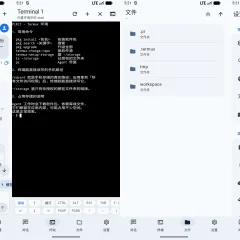
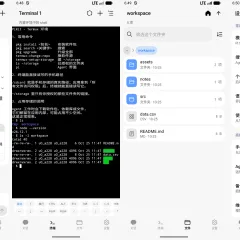
更新：PiKit 文章同步至 0.6.1
- 界面设计语言由 Material 3 Expressive 改为 Miuix，预览图换为 0.6.0 版
- 供应商 34 家、运行时约 300 MB，文件页与输入区布局按新界面改写
- 补充 Android 8.0 要求、x86_64 包与增量更新说明
- 按手册与设计文档校正回合折叠、设置页条目、删除范围、网络与上架说明

diff --git a/src/content/posts/pikit.md b/src/content/posts/pikit.md
@@ -1,22 +1,22 @@
 ---
 title: PiKit 发布：一个基于 pi 和 Termux 的简洁安卓 AI Agent
 date: 2026-09-23
-lastMod: 2026-10-13T11:18:12+08:00
+lastMod: 2026-10-30T08:30:04+08:00
 summary: 一直想要一个开箱即用、又简洁美观的手机 AI Agent——试过一圈都不够顺手，于是自己做了 PiKit。介绍它是什么、为什么做，以及怎么装到手机上。
 category: 分享
 tags: [PiKit, Android, AI, pi, Termux, 分享]
 cover: /pikit-preview.webp
 ---
 
-手机上不缺会聊天的 AI，缺的是**开箱即用、又简洁美观的专业 Agent**。为了这么一个东西，我试过不少 App，也折腾过 Termux + [pi](https://pi.dev)，最后决定自己动手——项目叫 **[PiKit](https://github.com/nekooy/PiKit)**，一个基于 pi 和 Termux 的简洁安卓 AI Agent。
+手机上不缺会聊天的 AI，缺的是**开箱即用、又简洁美观的专业 Agent**。为了这么一个东西，我试过不少 App，也折腾过 Termux + [pi](https://pi.dev)，最后决定自己动手——项目叫 **[PiKit](https://github.com/nekooy/PiKit)**，一个基于 pi 和 Termux 的简洁安卓 AI Agent。项目一直在迭代，现在已经到 0.6.1。
 
 ## 一、PiKit 是什么
 
 一句话：**一个简洁、开箱即用的 Android AI Agent。**
 
-装好 APK 就能直接用：Termux 环境、Node.js 与 `pi` 命令行都打包在包里，首次启动解包即用，不必再配软件源或额外下载。提问仍要送到模型供应商，所以唯一需要的网络是「能连上那家供应商」。
+装好 APK 就能直接用：Termux 环境、Node.js 与 `pi` 命令行都打包在包里，首次启动解包即用，不必再配软件源或额外下载。提问仍要送到模型供应商，所以网络至少要能连上那家供应商。
 
-界面用 Kotlin 与 Jetpack Compose 写成，按 **Material 3 Expressive（MD3E）** 设计语言绘制，架在一个引入的 Termux 终端之上，**任何地方都没有 WebView**。目前有英文、简体中文和日文三套文案。
+界面用 Kotlin 与 Jetpack Compose 写成，按 **Miuix**（MIUI / HyperOS 风格的 Compose 组件库）绘制，架在一个引入的 Termux 终端之上，**任何地方都没有 WebView**。目前有英文、简体中文和日文三套文案。
 
 ## 二、为什么做这个
 
@@ -28,39 +28,39 @@ cover: /pikit-preview.webp
 
 结论很朴素：**市面上缺一个既专业、又干净、还能自己掌控的手机端 Agent。**
 
-自己折腾 Termux + pi 那条路也不轻松：环境搭建步骤多，换机、重装就来一遍；网络环境一差，`pkg install` 就开始漫长重试；好不容易跑起来，输入法还缺 ESC / TAB / 方向键。PiKit 把第一类问题直接消掉——**运行时是 APK 的一部分**，首次启动解包（约 285 MB，几秒即可）就能用；第二类交给原生界面：对话、终端、文件、设置四个标签页，模型与思考等级做成输入框上方的开关，不重启 Agent 就生效。
+自己折腾 Termux + pi 那条路也不轻松：环境搭建步骤多，换机、重装就来一遍；网络环境一差，`pkg install` 就开始漫长重试；好不容易跑起来，输入法还缺 ESC / TAB / 方向键。PiKit 把第一类问题直接消掉——**运行时是 APK 的一部分**，首次启动解包（约 300 MB，几秒即可）就能用；第二类交给原生界面：对话、终端、文件、设置四个标签页，模型与思考等级做成输入框上方的开关，不重启 Agent 就生效。
 
-设计上也有几条刻意的克制，不少是被上面那些 App「教育」出来的：不往里堆功能；没有账号，也没有遥测；有意不上架 Google Play，只从 [Releases](https://github.com/nekooy/PiKit/releases/latest) 直接发 APK。
+设计上也有几条刻意的克制，不少是被上面那些 App「教育」出来的：不往里堆功能；没有账号，也没有遥测；不上架 Google Play（Play 的政策也不接受这类会申请「所有文件访问权限」的应用），只从 [Releases](https://github.com/nekooy/PiKit/releases/latest) 直接发 APK。
 
 ## 三、主要特色
 
-| 方面   | 说明                                                                                                                                |
-| ------ | ----------------------------------------------------------------------------------------------------------------------------------- |
-| 界面   | Kotlin + Jetpack Compose，按 Material 3 Expressive（MD3E）绘制；四个标签页，没有 WebView                                            |
-| 对话   | 走 pi 的 RPC 协议；回合结束折叠成一行（如 `Worked 47s · 5 steps`），点一下重新展开                                                  |
-| 控制   | 思考等级、模型、上下文占用、缓存命中都是输入框上方的按钮，不重启 Agent 就生效                                                       |
-| 终端   | 切换标签页也不中断的 PTY 会话，以及手机键盘没有的按键                                                                               |
-| 文件   | `$HOME` 的只读视图，方便快速翻看工作区                                                                                              |
-| 供应商 | pi 密钥表认识的 32 家，外加自定义端点；上下文窗口、输出上限、思考等级与图片支持读自 pi 的目录                                       |
-| 安全   | 存储授权默认为空、按文件夹逐个开启；删除只在应用数据内生效；安全守卫拒绝 `$HOME/workspace` 之外的递归删除，也拒绝改写 pi 自己的文件 |
+| 方面   | 说明                                                                                                                                                                                                       |
+| ------ | ---------------------------------------------------------------------------------------------------------------------------------------------------------------------------------------------------------- |
+| 界面   | Kotlin + Jetpack Compose，按 Miuix（MIUI / HyperOS 风格的组件库）绘制；四个标签页，没有 WebView                                                                                                            |
+| 对话   | 走 pi 的 RPC 协议；回合结束后中间步骤折叠成一行（如 `Worked 47s · 5 steps`），点一下重新展开                                                                                                               |
+| 控制   | 思考等级、模型与缓存命中是输入框上方的一排按钮，上下文占用做成发送键旁的圆环；模型与思考等级切换后不重启 Agent 就生效                                                                                      |
+| 终端   | 切换标签页也不中断的 PTY 会话，以及手机键盘没有的按键                                                                                                                                                      |
+| 文件   | `$HOME` 的只读文件管理器：可点的路径、只筛当前文件夹的筛选框、三种排序、每行的大小或项数、图片预览与长按复制路径                                                                                           |
+| 供应商 | pi 密钥表里能用单个 Key 配好的 34 家，外加自定义端点；上下文窗口、输出上限、思考等级与图片支持读自 pi 的目录                                                                                               |
+| 安全   | 存储授权默认为空、按文件夹逐个开启；PiKit 自己的递归删除只在应用数据内生效；运行时里的安全扩展在每次 `bash`、`write`、`edit` 前把关，拒绝 `$HOME/workspace` 之外的递归删除，也拒绝改写 pi 自己的凭据与设置 |
 
 ## 四、界面一览
 
-![PiKit 0.5.0 界面预览：对话、终端、文件、设置四个标签页](/pikit-preview.webp)
+![PiKit 0.6.0 界面预览：对话、终端、文件、设置四个标签页](/pikit-preview.webp)
 
-对话页把完整回合收成一行，需要回看时再展开；终端与文件页服务「Agent 改完东西，人要确认一眼」的场景；设置里管模型与供应商、手机存储、备份与更新检查。
+对话页把回合里的中间步骤收成一行，需要回看时再展开（最终回答不会被折叠）；终端与文件页服务「Agent 改完东西，人要确认一眼」的场景；设置页分成「常用设置」与「高级」两段：模型与供应商、搜索设置、个性化、语言、使用手册，以及手机存储、Agent 进程、备份与恢复、维护与修复、关于 PiKit。
 
 ## 五、怎么装
 
-手机、平板直接下这个 arm64 包即可（`app-arm64-release.apk`，约 110 MB）：
+需要 Android 8.0 以上；手机、平板直接下这个 arm64 包即可（`app-arm64-release.apk`，约 110 MB）：
 
 **[下载 PiKit APK](https://github.com/nekooy/PiKit/releases/latest/download/app-arm64-release.apk)**
 
-其他架构和校验文件见 [releases 页面](https://github.com/nekooy/PiKit/releases/latest)；不确定架构可以用 `adb shell getprop ro.product.cpu.abi` 查看。装错也无妨，应用会提示该包没有本机运行时镜像，而不是启动后才失败。建议用 `sha256sum -c SHA256SUMS` 校验后再安装。
+`x86_64` 模拟器用 `app-x64-release.apk`，校验文件见 [releases 页面](https://github.com/nekooy/PiKit/releases/latest)；不确定架构可以用 `adb shell getprop ro.product.cpu.abi` 查看。装错也无妨，应用会提示该包没有本机运行时镜像，而不是启动后才失败。建议用 `sha256sum -c SHA256SUMS` 校验后再安装。
 
-首次启动只要几秒：它会解包运行时，然后就能用了。到 **设置 → 模型与供应商** 填 API Key，或有订阅时到终端页执行 `pi /login`。
+首次启动只要几秒：它会解包约 300 MB 的运行时，然后就能用了。到 **设置 → 模型与供应商** 填 API Key，或有订阅时到终端页执行 `pi /login`。
 
-更新时覆盖安装即可保留数据——需要时点 **关于 PiKit → 检查更新**，它只在点击时才请求 GitHub。
+更新时覆盖安装即可保留数据——需要时点 **关于 PiKit → 检查更新**，它只在点击时才请求 GitHub。现在的更新也不再整包重解运行环境：pi 与扩展就地替换，`pkg` 装过的软件包原样保留。
 
 ## 六、开源与许可
 
